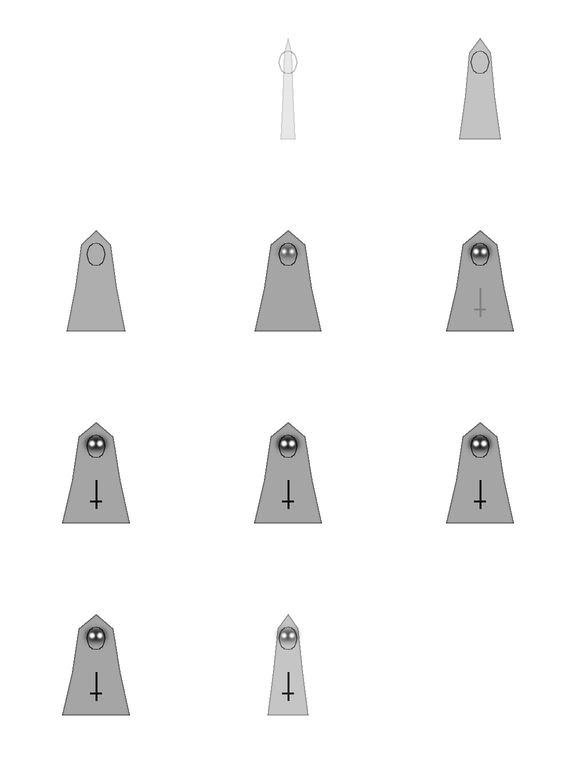
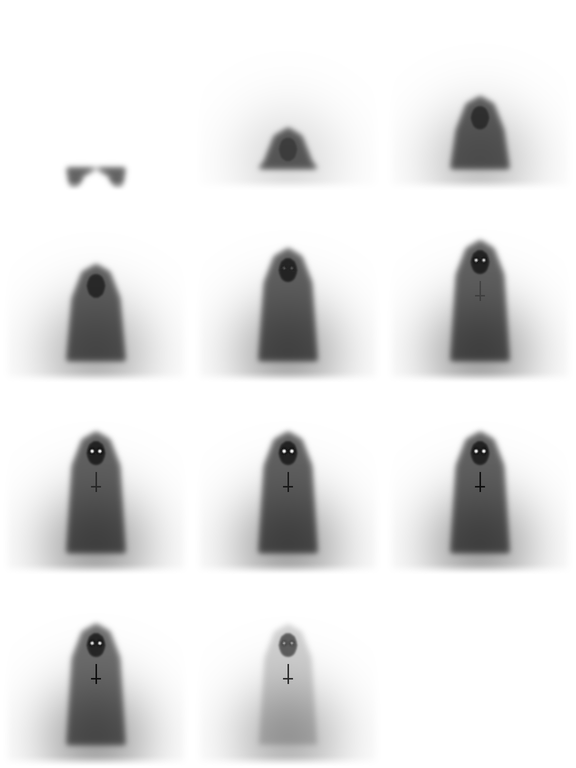
Mecânicas únicas refeitas, lote b: Darth Vader, Jason, Michael Myers, Ghostface, Samara, Valak, Harry Potter e Voldemort
A mão da Força fechando, a máscara de hóquei e o golpe parando no limite, a silhueta com a
faca atrás da vítima, a outra máscara cortando em X, a TV de chiado com o anel e o cabelo, a
freira surgindo da sombra com os olhos acesos, o escudo da mãe devolvendo o golpe e a
horcrux rachando em cacos.

Claude-Session: https://claude.ai/code/session_01PMqYr7dzepWu6nnfVUTKuy

diff --git a/src/presentation/golpe-das-folhas.ts b/src/presentation/golpe-das-folhas.ts
@@ -992,7 +992,7 @@ export const QUADRO_DO_GOLPE: Record<string, number> = {
   mu_arremesso_carro: 6,
   mu_asa_negra: 1,
   mu_asas_protetoras: 4,
-  mu_atras: 4,
+  mu_atras: 5,
   mu_bakuryuha: 4,
   mu_banana: 5,
   mu_batarangue: 2,
@@ -1165,7 +1165,7 @@ export const QUADRO_DO_GOLPE: Record<string, number> = {
   mu_horcrux: 4,
   mu_ilusao: 0,
   mu_ilusao_aizen: 2,
-  mu_implacavel: 5,
+  mu_implacavel: 6,
   mu_imprevisivel: 5,
   mu_improviso: 6,
   mu_imune: 1,
@@ -1307,7 +1307,7 @@ export const QUADRO_DO_GOLPE: Record<string, number> = {
   mu_semente: 1,
   mu_sempre_junto: 6,
   mu_sentido_radar: 5,
-  mu_sete_dias: 1,
+  mu_sete_dias: 3,
   mu_sharingan: 1,
   mu_shazam: 3,
   mu_shinra_tensei: 5,
@@ -1356,7 +1356,7 @@ export const QUADRO_DO_GOLPE: Record<string, number> = {
   mu_viltrumita: 4,
   mu_vinganca: 4,
   mu_virou_pedra: 5,
-  mu_vitima: 5,
+  mu_vitima: 6,
   mu_voz_roubada: 3,
   mu_vrrrum: 5,
   mu_waka: 1,

diff --git a/tools/vfx/familias_v2/unicas_refeitas_b.py b/tools/vfx/familias_v2/unicas_refeitas_b.py
@@ -1,0 +1,211 @@
+"""Mecânicas únicas refeitas, lote b (filmes e terror): o impacto conta o nome da mecânica.
+
+- mu_estrangulamento (Darth Vader): a mão invisível da Força fechando os dedos em volta do alvo;
+- mu_implacavel (Jason): a máscara de hóquei e o golpe que para no limite;
+- mu_vitima (Michael Myers): a silhueta atrás do alvo e a faca que brilha;
+- mu_outro_ghostface (Ghostface): a outra máscara aparece e corta em X;
+- mu_sete_dias (Samara): a TV de chiado, o anel de luz e o cabelo escorrendo;
+- mu_atras (Valak): a freira surgindo da sombra atrás do alvo, olhos acesos e a cruz virada;
+- mu_golpe_voltou (Harry Potter): o escudo de amor da mãe e o golpe voltando;
+- mu_horcrux (Voldemort): a horcrux rachando em cacos e a fumaça de cobra.
+"""
+from __future__ import annotations
+
+import math
+
+import numpy as np
+
+from .base import GRANDE, TAU, apaga, ease_in, ease_out, estrela, pulso, rel, vazio
+
+
+def _oval(cx, cy, rx, ry, n=24, ang=0.0):
+    c, s = math.cos(ang), math.sin(ang)
+    return [(cx + rx * math.cos(TAU * k / n) * c - ry * math.sin(TAU * k / n) * s, cy + rx * math.cos(TAU * k / n) * s + ry * math.sin(TAU * k / n) * c) for k in range(n)]
+
+
+def _contorno(T, pts, larg):
+    return T.lines([(*a, *b, 1) for a, b in zip(pts, pts[1:] + pts[:1])], larg)
+
+
+def estrangulamento(T, t, rng):
+    G, H = vazio(T)
+    env = apaga(t, 0.86, 1)
+    fecha = ease_out(rel(t, 0.0, 0.45), 2)
+    cy = -0.12
+    for k in range(4):
+        a0 = -2.3 + 0.75 * k
+        r = 0.55 - 0.3 * fecha
+        G += T.arc_band(r, 0.035, a0, a0 + 0.55, cx=0, cy=cy, taper=1.0) * 1.1
+    G += T.arc_band(0.55 - 0.3 * fecha, 0.04, 0.6, 1.4, cx=0, cy=cy, taper=1.0) * 0.9
+    aperta = rel(t, 0.3, 0.95)
+    if aperta > 0:
+        for k in range(3):
+            f = ((aperta * 2.5 + k / 3) % 1)
+            G += T.ring(0.42 * (1 - f) + 0.05, 0.015, 0, cy) * (1 - f) * 0.9
+        H += T.gauss(0, cy, 0.06) * pulso(t, 0.35, 0.9) * 0.9
+    sobe = ease_out(rel(t, 0.3, 0.8), 2)
+    G += T.lines([(x, 0.55, x, 0.55 - 0.18 * sobe, 1) for x in (-0.08, 0.08)], 0.01) * 0.6 * sobe
+    return G * env, H * env
+
+
+def implacavel(T, t, rng):
+    G, H = vazio(T)
+    env = apaga(t, 0.86, 1)
+    surge = ease_out(rel(t, 0.0, 0.3), 2)
+    mascara = _oval(0, -0.02, 0.26 * surge + 0.01, 0.34 * surge + 0.01)
+    G += T.polys([(mascara, 1.0)], 0.004) * 0.35 + _contorno(T, mascara, 0.014) * 1.1
+    q = np.random.default_rng(5)
+    furos = [(x * surge, y * surge, 1.0) for x, y in [(-0.1, -0.12), (0.1, -0.12), (-0.05, 0.05), (0.05, 0.05), (0, 0.15), (-0.13, 0.12), (0.13, 0.12)]]
+    G += T.splats(furos, 0.022) * 0.9
+    G += T.lines([(-0.2 * surge, -0.2, -0.04, -0.06, 1), (0.2 * surge, -0.2, 0.04, -0.06, 1)], 0.02) * 0.8
+    golpe = rel(t, 0.35, 0.7)
+    if golpe > 0:
+        x = -0.9 + 0.7 * ease_in(min(golpe * 1.6, 1), 2)
+        G += T.tapered([(x - 0.4, -0.45, x, -0.25, 1)], 0.03) * (1 - rel(t, 0.6, 0.8))
+        para = pulso(t, 0.5, 0.75)
+        G += T.polys([(estrela(-0.3, -0.27, 0.22 * para + 0.01, 0.2, 8, 0.3), 1.0)], 0.008) * para * 1.3
+        G += T.ring(0.5, 0.03, 0, 0) * para * 1.0
+        H += T.gauss(-0.3, -0.27, 0.05) * para * 1.8
+    return G * env, H * env
+
+
+def vitima(T, t, rng):
+    G, H = vazio(T)
+    env = apaga(t, 0.86, 1)
+    sombra = ease_out(rel(t, 0.0, 0.45), 2)
+    corpo = [(-0.22, 0.75), (-0.2, -0.05), (-0.12, -0.35), (0, -0.45), (0.12, -0.35), (0.2, -0.05), (0.22, 0.75)]
+    G += T.polys([([(x * sombra, y * 0.9 + 0.1 * (1 - sombra)) for x, y in corpo], 1.0)], 0.03) * 0.35 * sombra
+    G += T.gauss(0, -0.42, 0.14 * sombra) * 0.4
+    faca = rel(t, 0.25, 0.65)
+    if faca > 0:
+        y = -0.8 + 0.6 * ease_out(faca, 2)
+        lamina = [(0.28, y - 0.25), (0.33, y + 0.1), (0.29, y + 0.12)]
+        G += T.polys([(lamina, 1.0)], 0.003) * 1.1 + T.lines([(0.31, y + 0.12, 0.31, y + 0.28, 1)], 0.03) * 0.8
+        brilho = pulso(t, 0.45, 0.65)
+        G += T.flare(0.3, y - 0.12, 0.3 * brilho + 0.01, 0.0, 0.006) * brilho * 1.6
+        H += T.gauss(0.3, y - 0.12, 0.03) * brilho * 2.0
+    marca = rel(t, 0.55, 0.9)
+    G += T.ring(0.38, 0.03, 0, 0.05) * pulso(t, 0.55, 0.95) * 1.1
+    return G * env, H * env
+
+
+def outro_ghostface(T, t, rng):
+    G, H = vazio(T)
+    env = apaga(t, 0.86, 1)
+    surge = ease_out(rel(t, 0.0, 0.3), 2)
+    cx = 0.45 - 0.2 * surge
+    mascara = [(cx - 0.12, -0.35), (cx, -0.45), (cx + 0.12, -0.35), (cx + 0.1, 0.1), (cx, 0.25), (cx - 0.1, 0.1)]
+    G += T.polys([(mascara, 1.0)], 0.01) * 0.85 * surge * (1 - rel(t, 0.75, 0.95))
+    for s in (-1, 1):
+        G += T.polys([(_oval(cx + s * 0.05, -0.2, 0.03, 0.07, 12, s * 0.3), 1.0)]) * -0.8 * surge
+    G += T.polys([(_oval(cx, 0.05, 0.03, 0.08, 12), 1.0)]) * -0.8 * surge
+    corta = rel(t, 0.35, 0.65)
+    if corta > 0:
+        for a in (0.7, -0.7):
+            G += T.tapered([(-0.4 * math.cos(a) - 0.1, -0.4 * math.sin(a), (-0.4 + 0.8 * ease_out(corta, 2)) * math.cos(a) - 0.1, (-0.4 + 0.8 * ease_out(corta, 2)) * math.sin(a), 1)], 0.035) * (1 - rel(t, 0.65, 0.85)) * 1.2
+        H += T.gauss(-0.1, 0, 0.05) * pulso(t, 0.45, 0.7) * 1.8
+    return np.clip(G, 0, None) * env, H * env
+
+
+def sete_dias(T, t, rng):
+    G, H = vazio(T)
+    env = apaga(t, 0.86, 1)
+    liga = ease_out(rel(t, 0.0, 0.2), 2)
+    tela = [(-0.42 * liga, -0.3), (0.42 * liga, -0.3), (0.42 * liga, 0.28), (-0.42 * liga, 0.28)]
+    chiado = np.clip(T.noise(np.random.default_rng(int(t * 30) % 9), 0.015, 1) * 0.8 + 0.4, 0, 1)
+    G += T.polys([(tela, 1.0)], 0.004) * chiado * 0.45 * (1 - rel(t, 0.7, 0.9))
+    G += _contorno(T, [(-0.48 * liga, -0.36), (0.48 * liga, -0.36), (0.48 * liga, 0.34), (-0.48 * liga, 0.34)], 0.02) * 0.9
+    anel = rel(t, 0.15, 0.6)
+    G += T.ring(0.2 * ease_out(anel, 2) + 0.01, 0.025, 0, -0.01) * min(1, anel * 3) * 1.4 * (1 - rel(t, 0.7, 0.9))
+    H += T.ring(0.2 * ease_out(anel, 2) + 0.01, 0.01, 0, -0.01) * min(1, anel * 3) * (1 - rel(t, 0.7, 0.9))
+    cabelo = rel(t, 0.45, 1.0)
+    if cabelo > 0:
+        q = np.random.default_rng(4)
+        segs = []
+        for k in range(16):
+            x = q.uniform(-0.3, 0.3)
+            comp = 0.7 * ease_out(cabelo, 1.5) * q.uniform(0.6, 1.0)
+            pts = [(x + 0.03 * math.sin(i * 0.9 + k), -0.25 + comp * i / 8) for i in range(9)]
+            G += T.polyline(pts, 0.012) * 0.75
+    return G * env, H * env
+
+
+def atras(T, t, rng):
+    G, H = vazio(T)
+    env = apaga(t, 0.86, 1)
+    sobe = ease_out(rel(t, 0.0, 0.5), 2)
+    base = 0.75
+    alto = base - 1.25 * sobe
+    veu = [(-0.3, base), (-0.24, alto + 0.35), (-0.14, alto + 0.08), (0, alto), (0.14, alto + 0.08), (0.24, alto + 0.35), (0.3, base)]
+    G += T.polys([(veu, 1.0)], 0.03) * 0.55 * (1 - rel(t, 0.8, 0.95))
+    rosto = _oval(0, alto + 0.22, 0.09, 0.12)
+    G += T.polys([(rosto, 1.0)], 0.01) * 0.6 * sobe
+    olhos = pulso(t, 0.35, 0.95)
+    for s in (-1, 1):
+        G += T.gauss(s * 0.04, alto + 0.2, 0.018) * olhos * 1.8
+        H += T.gauss(s * 0.04, alto + 0.2, 0.01) * olhos * 2.0
+    cruz = rel(t, 0.4, 0.75)
+    if cruz > 0:
+        G += T.lines([(0, alto + 0.42, 0, alto + 0.62, 1), (-0.05, alto + 0.57, 0.05, alto + 0.57, 1)], 0.018) * cruz * 1.1
+    G += T.gauss(0, base - 0.05, 0.4) * 0.25 * sobe
+    return G * env, H * env
+
+
+def golpe_voltou(T, t, rng):
+    G, H = vazio(T)
+    env = apaga(t, 0.86, 1)
+    escudo = ease_out(rel(t, 0.0, 0.3), 2)
+    G += T.ring(0.42 * escudo + 0.01, 0.04) * 1.2
+    G += T.ring(0.42 * escudo + 0.01, 0.3) * 0.18
+    for k in range(10):
+        a = TAU * k / 10 + t * 2
+        G += T.gauss(0.42 * escudo * math.cos(a), 0.42 * escudo * math.sin(a), 0.025) * 0.8
+    vem = rel(t, 0.2, 0.45)
+    if vem > 0:
+        x = -0.95 + 0.53 * ease_in(vem, 2)
+        G += T.tapered([(x - 0.3, 0, x, 0, 1)], 0.04) * (1 - rel(t, 0.44, 0.46)) * 1.2
+    volta = rel(t, 0.45, 0.85)
+    if volta > 0:
+        x = -0.42 - 0.6 * ease_out(volta, 2)
+        G += T.tapered([(x + 0.3, 0, x, 0, 1)], 0.05) * (1 - rel(t, 0.8, 0.95)) * 1.4
+        H += T.tapered([(x + 0.3, 0, x, 0, 1)], 0.02) * (1 - rel(t, 0.8, 0.95))
+        G += T.polys([(estrela(-0.42, 0, 0.25 * pulso(t, 0.45, 0.65) + 0.01, 0.0, 8, 0.3), 1.0)], 0.01) * pulso(t, 0.45, 0.65) * 1.3
+    return G * env, H * env
+
+
+def horcrux(T, t, rng):
+    G, H = vazio(T)
+    env = apaga(t, 0.86, 1)
+    pend = 1 - rel(t, 0.3, 0.4)
+    medalhao = _oval(0, 0, 0.16, 0.2)
+    G += (T.polys([(medalhao, 1.0)], 0.004) * 0.5 + _contorno(T, medalhao, 0.014) + T.lines([(0, -0.2, 0, -0.45, 1)], 0.01)) * pend
+    G += T.polys([([(-0.06, 0.06), (0.0, -0.08), (0.06, 0.06), (0.0, 0.0)], 1.0)]) * 0.9 * pend
+    racha = rel(t, 0.2, 0.35)
+    G += T.polyline([(-0.02, -0.18), (0.04, -0.05), (-0.03, 0.04), (0.03, 0.18)], 0.01) * racha * pend * 1.5
+    quebra = rel(t, 0.35, 0.9)
+    if quebra > 0:
+        q = np.random.default_rng(6)
+        for k in range(14):
+            a = q.uniform(0, TAU)
+            d = 0.75 * ease_out(quebra, 2) * q.uniform(0.4, 1.0)
+            cx, cy = d * math.cos(a), d * math.sin(a)
+            s = 0.04 * q.uniform(0.6, 1.2)
+            caco = [(cx + s * math.cos(a + j * 2.1 + quebra * 5), cy + s * math.sin(a + j * 2.1 + quebra * 5)) for j in range(3)]
+            G += T.polys([(caco, 1.0)]) * (1 - rel(t, 0.7, 0.95)) * 0.9
+        cobra = [(0.5 * math.sin(i * 0.8 + t * 6) * (i / 14) * ease_out(quebra, 2), -0.1 - 0.06 * i * ease_out(quebra, 2)) for i in range(15)]
+        G += T.polyline(cobra, 0.04) * 0.5 * (1 - rel(t, 0.75, 0.95))
+        G += T.gauss(0, 0, 0.12) * pulso(t, 0.33, 0.55) * 1.4
+        H += T.gauss(0, 0, 0.05) * pulso(t, 0.33, 0.5) * 2.0
+    return G * env, H * env
+
+
+REGISTRO = [
+    ("mu_estrangulamento", estrangulamento, GRANDE, "Darth Vader · a mão da Força fechando em volta do alvo", False),
+    ("mu_implacavel", implacavel, GRANDE, "Jason · a máscara e o golpe que para no limite", False),
+    ("mu_vitima", vitima, GRANDE, "Michael Myers · a silhueta atrás do alvo e a faca brilhando", False),
+    ("mu_outro_ghostface", outro_ghostface, GRANDE, "Ghostface · a outra máscara e o corte em X", False),
+    ("mu_sete_dias", sete_dias, GRANDE, "Samara · a TV de chiado, o anel e o cabelo escorrendo", False),
+    ("mu_atras", atras, GRANDE, "Valak · a freira surgindo da sombra, olhos acesos e a cruz", False),
+    ("mu_golpe_voltou", golpe_voltou, GRANDE, "Harry Potter · o escudo da mãe e o golpe voltando", False),
+    ("mu_horcrux", horcrux, GRANDE, "Voldemort · a horcrux rachando em cacos e a fumaça de cobra", False),
+]

diff --git a/tools/vfx/familias_v2/__init__.py b/tools/vfx/familias_v2/__init__.py
@@ -5,7 +5,7 @@ Cada módulo temático tem uma lista REGISTRO de (nome, função, tela,
 descrição, laço). generate_families.py registra todas junto das originais;
 saem na mesma pasta (public/assets/vfx/familias), no mesmo formato.
 """
-from . import unicas_voo, unicas_refeitas_a
+from . import unicas_voo, unicas_refeitas_a, unicas_refeitas_b
 from . import apoio, assinaturas, corpo, cortes, elementos, energia, especiais, invocacoes, jeitos, magia, projeteis
 from . import cloud_e_dk, madara, naruto_ikki_luffy, ninjas_e_detetives, aang_sakura, aiolia_arthas, ciclope_shaka_mummra, sasuke_aranha_trunks_kuririn, omniman_guts_rick, rodada01, rodada02, rodada03, rodada04, rodada05, rodada06, rodada07, rodada08, rodada09, rodada10, rodada11, rodada12, rodada13, rodada14, rodada15, rodada16, rodada17, rodada18, rodada19, rodada20, rodada21, rodada22, rodada23, rodada24, rodada25, rodada26, rodada27, rodada28, rodada29, rodada30, rodada31, rodada32, rodada33, rodada34, rodada35, rodada36, rodada37, rodada38, rodada39, rodada40, rodada41, rodada42, rodada43, rodada44, rodada45, rodada46, rodada47, rodada48, rodada49, rodada50, rodada51, rodada52, rodada53, rodada54, rodada55, rodada56, rodada57, rodada58, rodada59, rodada60, rodada61, rodada62, rodada63, rodada64, unicas_a, unicas_b, unicas_c, unicas_d, unicas_e, unicas_f, unicas_g, unicas_h, unicas_i, unicas_j, unicas_k, unicas_l, unicas_m, unicas_n, unicas_o, unicas_p, unicas_q, unicas_r, rodada06, renascer_proprio, reviver_proprio, charizard_megaman, hulk, piccolo, superman_hyoga, toph_e_gon, viagens
 from . import basicos_a, basicos_b, basicos_c, basicos_d, basicos_e, basicos_f, basicos_g, basicos_h, basicos_i, basicos_j, basicos_k, basicos_l, basicos_m, basicos_n, basicos_o, basicos_p, basicos_q, basicos_r, basicos_s, basicos_t, basicos_u, basicos_v, basicos_w, basicos_x, basicos_y, basicos_z, basicos_za, basicos_zb, basicos_zc
@@ -17,6 +17,6 @@ def registra_todas(registra):
         for nome, fn, tela, descricao, laco in modulo.REGISTRO:
             registra(nome, fn, tela, descricao, laco=laco)
     # as mecânicas refeitas entram por último e substituem as folhas antigas de mesmo nome
-    for modulo in (unicas_refeitas_a,):
+    for modulo in (unicas_refeitas_a, unicas_refeitas_b):
         for nome, fn, tela, descricao, laco in modulo.REGISTRO:
             registra(nome, fn, tela, descricao, laco=laco)
